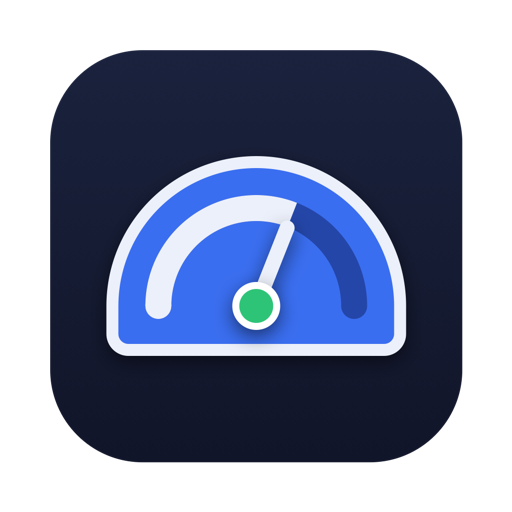
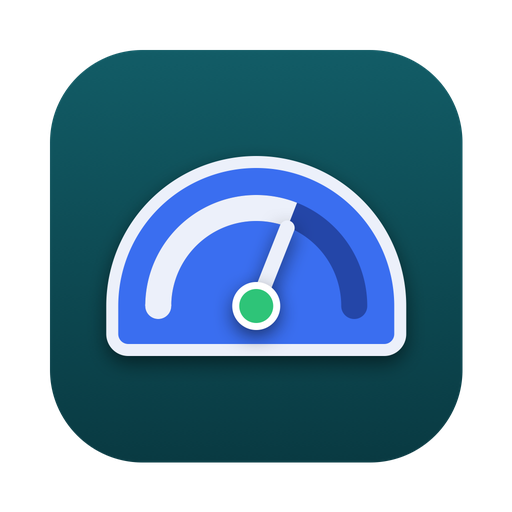
사적인 프로젝트 아이콘을 앱마다 다른 바탕색으로(대표 A안) + 한마디 이름을 Hanmadi로
- LimitGlance 청록, 한마디 노랑, MonitorAlign 남색 그대로. 사이트 아이콘·OG 그림 교체(앱 번들 아이콘은 다음 버전에서).
- 한마디 표시 이름 Hanmadi(대표 10-19). 제목·검색어·JSON-LD alternateName엔 한마디를 남김. 「한마디 메모」처럼 남긴 말을 뜻하는 자리는 그대로.

diff --git a/src/app/sideproject/hanmadi/copy.ts b/src/app/sideproject/hanmadi/copy.ts
@@ -1,4 +1,5 @@
-// 한마디 상세 문안. 한국어로 처음부터 썼다(10-19). 페이지는 한국어만 연다.
+// Hanmadi(한마디) 상세 문안. 앱 이름은 10-19부터 라틴 글자 Hanmadi(대표). 「한마디 메모」처럼 남긴 말을 뜻하는 자리는 한글 그대로.
+// 한국어로 처음부터 썼다(10-19). 페이지는 한국어만 연다.
 // 목록 한 줄과 히어로 소개는 대표가 직접 준 문장이다(10-19 「간결하게」).
 // 재료는 대표가 한 말뿐이다: 10-15 「맨날 기억을 메모장이나 스크린샷으로 찍어 두곤 하는데 이거 자주 휘발됐다」,
 //   10-19 「스크린샷 찍으면 이거 바탕화면에 다 남잖아」. 그 밖의 장면을 지어 넣지 말 것.
@@ -48,11 +49,13 @@ export type HanmadiCopy = {
 };
 
 export const HANMADI: HanmadiCopy = {
-  title: "한마디 — 스크린샷에 바로 한마디 남기는 맥 앱 (무료)",
+  title: "Hanmadi 한마디 — 스크린샷에 메모를 함께 남기는 맥 앱 (무료)",
   description:
     "맥에서 스크린샷을 찍으면 화면 구석에 작은 카드가 떠요. 글이나 말로 한마디 붙여 두면 찍은 화면과 같이 한곳에 모여요. 애플 메모와 스티커 메모도 가져와 같이 볼 수 있는 무료 앱이에요.",
-  ogTitle: "한마디 — 찍고, 한마디 남기는 맥 앱",
+  ogTitle: "Hanmadi — 스크린샷에 메모를 함께 남기는 맥 앱",
   keywords: [
+    "Hanmadi",
+    "한마디 앱",
     "스크린샷 메모",
     "맥 스크린샷 메모",
     "스크린샷 정리",
@@ -75,7 +78,7 @@ export const HANMADI: HanmadiCopy = {
     "그래서 찍는 순간에 한마디를 같이 붙여 두고, 남긴 걸 한곳에서 다시 보게 만들었어요.",
   ],
   howTitle: "쓰는 법",
-  howToName: "한마디로 스크린샷에 메모를 남기는 법",
+  howToName: "Hanmadi로 스크린샷에 메모를 남기는 법",
   steps: [
     "앱을 내려받아 열면 **스크린샷을 어디에 모을까요?** 창이 떠요. 기본은 **사진 › 스크린샷** 폴더예요. **시작하기**를 누르면 그다음부터 스크린샷이 바탕화면 대신 거기로 들어가요.",
     "평소처럼 스크린샷을 찍어요. 화면 오른쪽 아래에 카드가 떠요.",
@@ -90,7 +93,7 @@ export const HANMADI: HanmadiCopy = {
   importTitle: "애플 메모와 스티커 메모도 같이",
   imports: [
     "메뉴의 **애플 메모 가져오기…**나 **스티커 메모 가져오기…**를 누르면 그 메모들도 목록에 들어와요. 왼쪽에서 **한마디 메모**, **애플 메모**, **스티커 메모**로 나눠 보거나 **전체**로 한 번에 볼 수 있어요.",
-    "가져온 애플 메모를 고칠 땐 메모 앱이 열려요. 거기서 고친 내용은 한마디가 30분마다 다시 맞춰 와요.",
+    "가져온 애플 메모를 고칠 땐 메모 앱이 열려요. 거기서 고친 내용은 Hanmadi가 30분마다 다시 맞춰 와요.",
   ],
   firstTitle: "처음 열 때",
   first: [
@@ -113,7 +116,7 @@ export const HANMADI: HanmadiCopy = {
     },
     {
       q: "애플 메모를 가져오면 원래 메모가 바뀌나요?",
-      a: "아니요. 글을 읽어서 한마디 쪽에 사본을 만들어요. 비밀번호를 건 메모와 최근 삭제된 항목은 건너뛰고, 메모 속 사진은 아직 못 가져와요.",
+      a: "아니요. 글을 읽어서 Hanmadi 쪽에 사본을 만들어요. 비밀번호를 건 메모와 최근 삭제된 항목은 건너뛰고, 메모 속 사진은 아직 못 가져와요.",
     },
     { q: "찍은 사진을 분석하나요?", a: "아니요. 사진은 찍힌 그대로 저장만 해요." },
     { q: "아이폰에서도 돼요?", a: "아직은 맥에서만 써요." },

diff --git a/src/app/sideproject/hanmadi/page.tsx b/src/app/sideproject/hanmadi/page.tsx
@@ -13,7 +13,7 @@ import { DownloadButtons } from "../monitoralign/DownloadButtons";
 import { HANMADI } from "./copy";
 import { CardFigure, ListFigure } from "./Illustrations";
 
-const NAME = "한마디";
+const NAME = "Hanmadi";
 const PATH = "/sideproject/hanmadi";
 const ICON = "/sideproject/hanmadi/icon.png";
 const OG = "/sideproject/hanmadi/og-ko.png";
@@ -54,6 +54,7 @@ function structuredData() {
         "@type": "SoftwareApplication",
         "@id": `${url}#app`,
         name: NAME,
+        alternateName: "한마디",
         description: c.description,
         url,
         image: `${SITE_URL}${ICON}`,

diff --git a/src/app/sideproject/projects.ts b/src/app/sideproject/projects.ts
@@ -47,7 +47,7 @@ export const SIDE_PROJECTS: SideProject[] = [
   },
   {
     slug: "hanmadi",
-    name: "한마디",
+    name: "Hanmadi",
     tagline: "스크린샷을 찍고 메모를 함께 남길 수 있어요. 컴퓨터의 기존 메모들도 가져와 함께 관리해 보세요.",
     meta: "macOS · 무료",
     icon: "/sideproject/hanmadi/icon-256.png",
